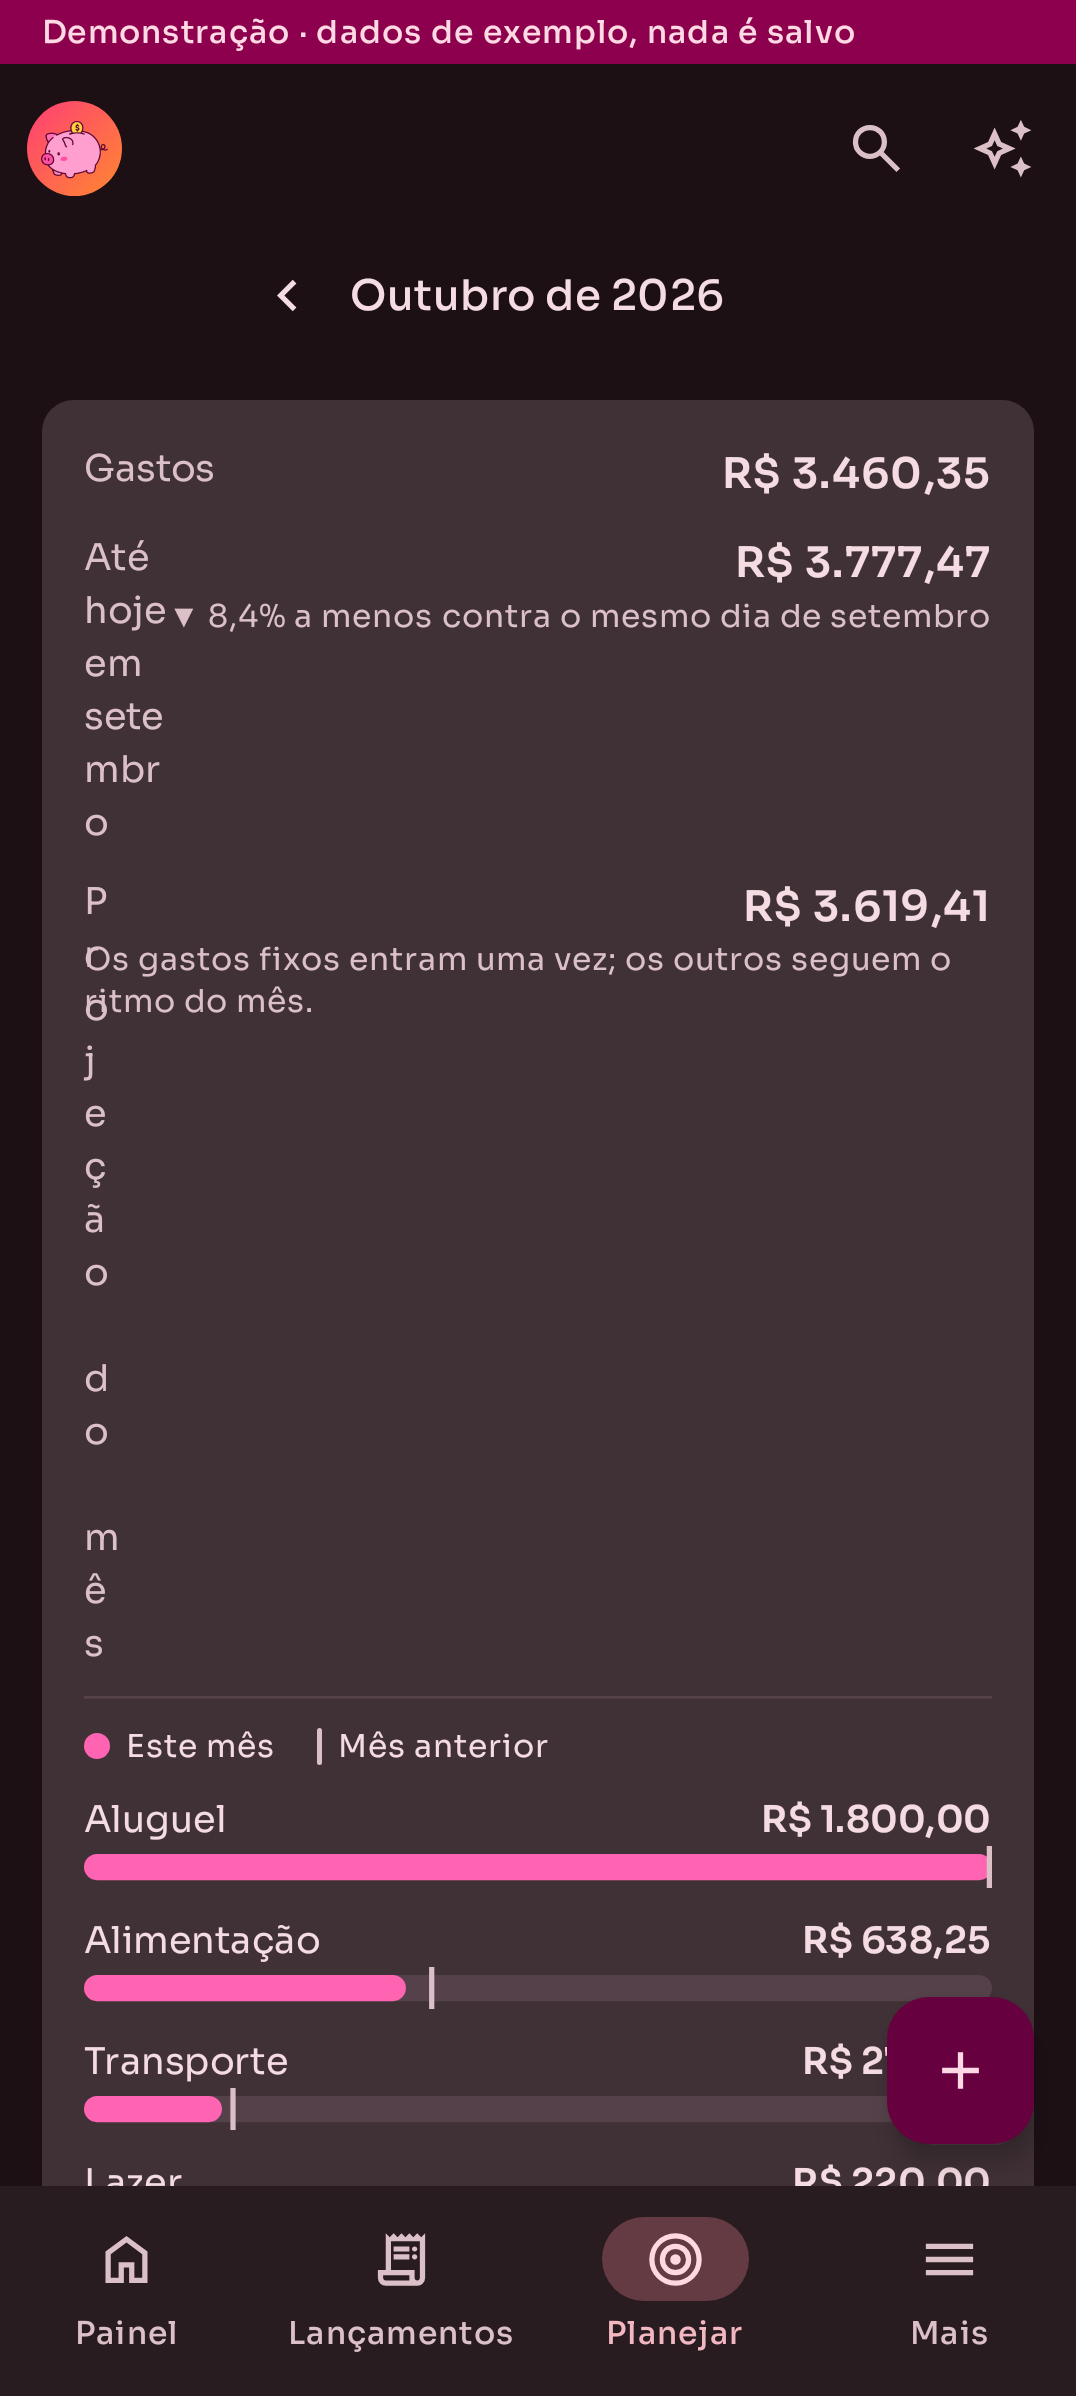
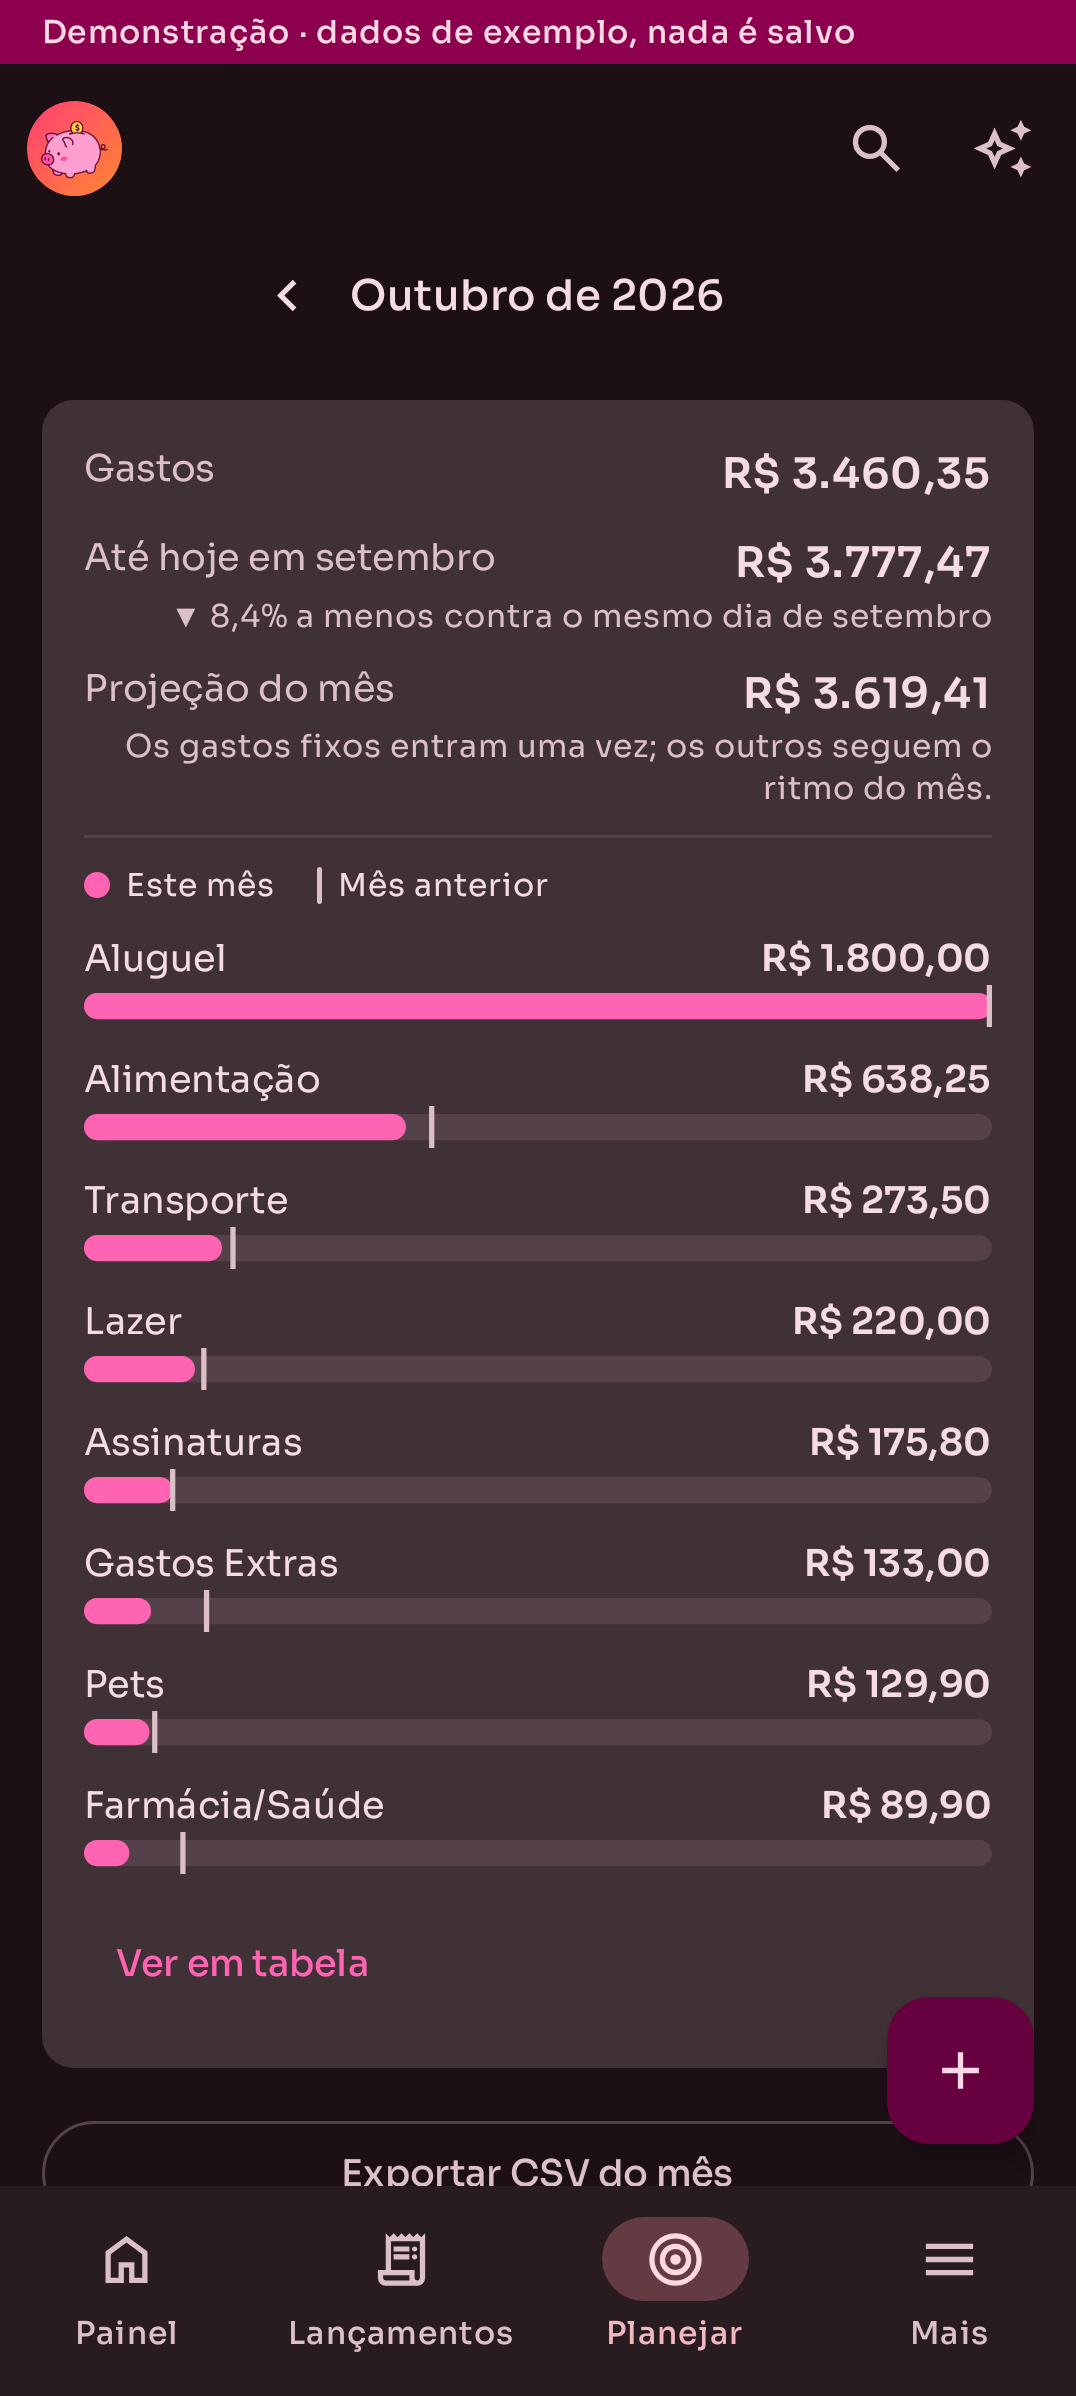
Prints mais vendáveis e Relatórios do Android sem rótulo espremido (D-197)
- iOS: demonstração da Ana Lima com limite de R$ 4.500 (Ainda dá positivo),
  Banco Exemplo no lugar de Nubank e Itaú, Casa da Ana
- Prints sem Contas e Cartões nem o Premium do iOS (loja indisponível fora do Xcode);
  entram Receitas e Família
- Simulador em pt-BR e barra de status do Android sem 3G
- Android, Relatórios: detalhe embaixo do valor; o rótulo quebrava letra a letra.
  Capturas da etapa 5 gravadas de novo

diff --git a/ios-nativo/Piggu/Core/API/DadosDaDemonstracao.swift b/ios-nativo/Piggu/Core/API/DadosDaDemonstracao.swift
@@ -34,8 +34,8 @@ struct DadosDaDemonstracao {
         ["id": "o-lazer", "categoria": "Lazer", "limite": 250.0],
     ]
     var contas: [[String: Any]] = [
-        ["id": cartao, "nome": "Nubank roxinho", "tipo": "CARTAO", "fechamento": 3, "vencimento": 10, "compartilhado": false],
-        ["id": banco, "nome": "Conta do Itaú", "tipo": "CONTA", "compartilhado": true],
+        ["id": cartao, "nome": "Cartão principal", "tipo": "CARTAO", "fechamento": 3, "vencimento": 10, "compartilhado": false],
+        ["id": banco, "nome": "Conta da casa", "tipo": "CONTA", "compartilhado": true],
     ]
     /// "id/aaaa-mm" das faturas marcadas como pagas.
     var faturasPagas: Set<String> = []
@@ -61,7 +61,7 @@ struct DadosDaDemonstracao {
     var convites: [[String: Any]] = [
         ["id": "cv1", "email": "joao@exemplo.com", "venceEm": "2026-11-03"],
     ]
-    var nomeDaFamilia = "Casa da Pessoa"
+    var nomeDaFamilia = "Casa da Ana"
     var compras: [[String: Any]] = [
         ["id": "c1", "item": "Ovos", "quantidade": "12", "lista": "Compras", "comprado": false, "marca": "", "imagem": "", "codigo": ""],
         ["id": "c2", "item": "Leite integral", "quantidade": "2 L", "lista": "Compras", "comprado": false, "marca": "Piracanjuba", "imagem": "", "codigo": "789"],
@@ -86,9 +86,9 @@ struct DadosDaDemonstracao {
         ["id": "ft2", "assetId": "demo-foto-2", "legenda": ""],
     ]
     var contasBancarias: [[String: Any]] = [
-        ["id": novoId(), "conexaoId": "cx1", "instituicao": "Nubank", "nome": "Conta corrente", "tipo": "BANK",
+        ["id": novoId(), "conexaoId": "cx1", "instituicao": "Banco Exemplo", "nome": "Conta corrente", "tipo": "BANK",
          "numero": "0001-9", "saldo": 4210.55, "moeda": "BRL", "status": "UPDATED"],
-        ["id": novoId(), "conexaoId": "cx1", "instituicao": "Nubank", "nome": "Caixinha", "tipo": "BANK",
+        ["id": novoId(), "conexaoId": "cx1", "instituicao": "Banco Exemplo", "nome": "Caixinha", "tipo": "BANK",
          "numero": "", "saldo": 1500.0, "moeda": "BRL", "status": "UPDATED"],
     ]
 
@@ -110,7 +110,7 @@ struct DadosDaDemonstracao {
         ]
         aReceber = [
             ["id": Self.novoId(), "quem": "João", "descricao": "Metade da pizza", "valor": 45.0, "data": dia(3)],
-            ["id": Self.novoId(), "quem": "Ana", "descricao": "Ingresso do show", "valor": 180.0, "data": dia(-10)],
+            ["id": Self.novoId(), "quem": "Bia", "descricao": "Ingresso do show", "valor": 180.0, "data": dia(-10)],
         ]
         recorrentes = [
             ["id": Self.novoId(), "descricao": "Salário", "categoria": "Salário", "valor": 5200.0, "dia": 1,
@@ -128,7 +128,7 @@ struct DadosDaDemonstracao {
             ["id": Self.novoId(), "titulo": "Renovar o seguro do carro", "texto": "Pedir 3 cotações",
              "data": NSNull(), "criadoEm": ISO8601DateFormatter().string(from: hoje)],
         ]
-        limites = [mes: 2500]
+        limites = [mes: 4500]
     }
 
     static func novoId() -> String { UUID().uuidString.lowercased() }
@@ -266,7 +266,7 @@ struct DadosDaDemonstracao {
         ["id": "f1", "nome": nomeDaFamilia, "plano": "GRATUITO", "planoFamilia": false, "planoCasal": false,
          "convites": convites,
          "membros": [
-             ["id": eu, "nome": "Pessoa de Demonstração", "email": "demo@piggu.app", "foto": NSNull(), "papel": "TITULAR",
+             ["id": eu, "nome": "Ana Lima", "email": "demo@piggu.app", "foto": NSNull(), "papel": "TITULAR",
               "premium": false],
              ["id": Self.parceira, "nome": "Bia", "email": "bia@piggu.app", "foto": NSNull(), "papel": "PARCEIRO",
               "premium": false],
@@ -597,7 +597,7 @@ struct DadosDaDemonstracao {
                           ["codigo": "USD", "nome": "Dólar americano"], ["codigo": "GBP", "nome": "Libra esterlina"],
                           ["codigo": "ARS", "nome": "Peso argentino"]])
         case ("GET", "me/export"):
-            return (200, Data(#"{"conta":{"nome":"Pessoa de Demonstração"},"gastos":[]}"#.utf8))
+            return (200, Data(#"{"conta":{"nome":"Ana Lima"},"gastos":[]}"#.utf8))
         case ("DELETE", "receipts/consent"):
             return (204, nil)
         case ("DELETE", "assistant/consent"):

diff --git a/android-nativo/feature/relatorios/src/main/kotlin/br/com/piggu/feature/relatorios/TelaDeRelatorios.kt b/android-nativo/feature/relatorios/src/main/kotlin/br/com/piggu/feature/relatorios/TelaDeRelatorios.kt
@@ -209,11 +209,15 @@ private fun Titulo(texto: String, modifier: Modifier = Modifier) =
 /** Rótulo à esquerda, valor à direita, lidos juntos (LabeledContent do iOS). */
 @Composable
 private fun Numero(rotulo: String, valor: String, detalhe: String? = null, corDoValor: Color = Color.Unspecified) {
-    Row(Modifier.fillMaxWidth().semantics(mergeDescendants = true) {}, verticalAlignment = Alignment.Top) {
-        Text(rotulo, Modifier.weight(1f), style = MaterialTheme.typography.bodyMedium, color = MaterialTheme.colorScheme.onSurfaceVariant)
-        Column(horizontalAlignment = Alignment.End) {
+    // O detalhe vai embaixo, na largura toda: ao lado do valor, um texto longo espremia o rótulo letra a letra.
+    Column(Modifier.fillMaxWidth().semantics(mergeDescendants = true) {}) {
+        Row(verticalAlignment = Alignment.Top) {
+            Text(rotulo, Modifier.weight(1f), style = MaterialTheme.typography.bodyMedium, color = MaterialTheme.colorScheme.onSurfaceVariant)
             Text(valor, style = MaterialTheme.typography.bodyLarge, fontWeight = FontWeight.SemiBold, color = corDoValor)
-            detalhe?.let { Text(it, style = MaterialTheme.typography.bodySmall, color = MaterialTheme.colorScheme.onSurfaceVariant) }
+        }
+        detalhe?.let {
+            Text(it, Modifier.fillMaxWidth(), style = MaterialTheme.typography.bodySmall,
+                color = MaterialTheme.colorScheme.onSurfaceVariant, textAlign = TextAlign.End)
         }
     }
 }

diff --git a/ios-nativo/Piggu/Core/API/TransporteDeDemonstracao.swift b/ios-nativo/Piggu/Core/API/TransporteDeDemonstracao.swift
@@ -122,9 +122,9 @@ actor TransporteDeDemonstracao: Transporte {
     nonisolated(unsafe) private static let usuarioPadrao: [String: Any] = [
         "id": "8a5c2f0e-0000-4000-8000-000000000001",
         "email": "demo@piggu.app",
-        "nome": "Pessoa de Demonstração",
-        "primeiroNome": "Pessoa",
-        "apelido": "Pessoa",
+        "nome": "Ana Lima",
+        "primeiroNome": "Ana",
+        "apelido": "Ana",
         "foto": NSNull(),
         "role": "TITULAR",
         "ativo": true,

diff --git a/docs/DECISIONS.md b/docs/DECISIONS.md
@@ -2085,6 +2085,8 @@ D-008, D-045, D-047, D-049, D-069, D-070 e D-071.
   - O Keychain no iOS (D-187) e a revogação da Apple (D-142) já estavam feitos; o README do iOS deixa de listá-los como pendentes.
   - `ios-nativo/scripts/prints-das-lojas.sh` grava os prints da App Store pela demonstração (iPhone 6,9" e iPad 13"), com a barra de status limpa.
   - `android-nativo/scripts/prints-das-lojas.sh` grava os do Google Play em 1080 × 1920 (9:16). O build `-Ppiggu.prints=true` da variante demo esconde a faixa "Demonstração" (`BuildConfig.PRINTS`); o APK normal da demonstração continua com ela.
+  - Prints que vendem: telas Painel, Gastos, Receitas, Relatórios, Orçamento, Metas, Calendário e Plano (Android) ou Família (iOS, onde a loja de teste não carrega fora do Xcode). Fora Contas e Cartões, que mostra nomes de bancos. A demonstração do iOS passa a ser da Ana Lima, com limite de R$ 4.500 como no Android (o "Ainda dá para gastar" fica positivo), "Banco Exemplo" no lugar de Nubank e Itaú e "Casa da Ana". O simulador fica em português, para a data do iPad.
+  - Android, Relatórios: o detalhe ("1,6% a menos…", "Os gastos fixos entram uma vez…") desce para baixo do valor, na largura toda. Ao lado do valor ele espremia o rótulo, que quebrava letra a letra; as capturas da etapa 5 foram gravadas de novo.
 - Alternativas: um manifesto só, compartilhado pelos dois alvos (o widget declararia dados que não coleta); explicar a exclusão só no Aviso de Privacidade (o Google pede uma página própria).
 - Consequências: as respostas de privacidade no App Store Connect e a Segurança dos dados no Google Play precisam bater com o manifesto e com a página. O pedido por e-mail para quem não tem acesso é atendido à mão, confirmando pelo e-mail da conta.
 - Onde ver: `ios-nativo/Piggu/PrivacyInfo.xcprivacy`, `ios-nativo/PigguWidgets/PrivacyInfo.xcprivacy`, `frontend/src/app/features/legal/excluir-conta.html`, `ios-nativo/scripts/prints-das-lojas.sh`, `android-nativo/scripts/prints-das-lojas.sh`, `android-nativo/app/build.gradle.kts`
